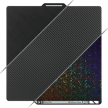
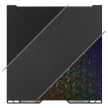
FIX: update images and name of 3D effect plate
jira: none

diff --git a/src/slic3r/GUI/SelectMachine.cpp b/src/slic3r/GUI/SelectMachine.cpp
@@ -9598,11 +9598,11 @@ void PrinterInfoBox::UpdatePlate(const std::string& plate_name, const std::strin
             image_name = "bed_texture";
         }
         else if (plate_name == "Supertack Plate") {
-            name = _L("Bambu Cool Plate SuperTack");
+            name = _L("Cool Plate SuperTack");
             image_name = "bed_cool_supertack";
         }
         else if (plate_name == "3D Effect Plate") {
-            name = _L("Bambu 3D Effect Plate");
+            name = _L("3D Effect Plate");
             image_name = "bed_3d_effect";
         }
 
